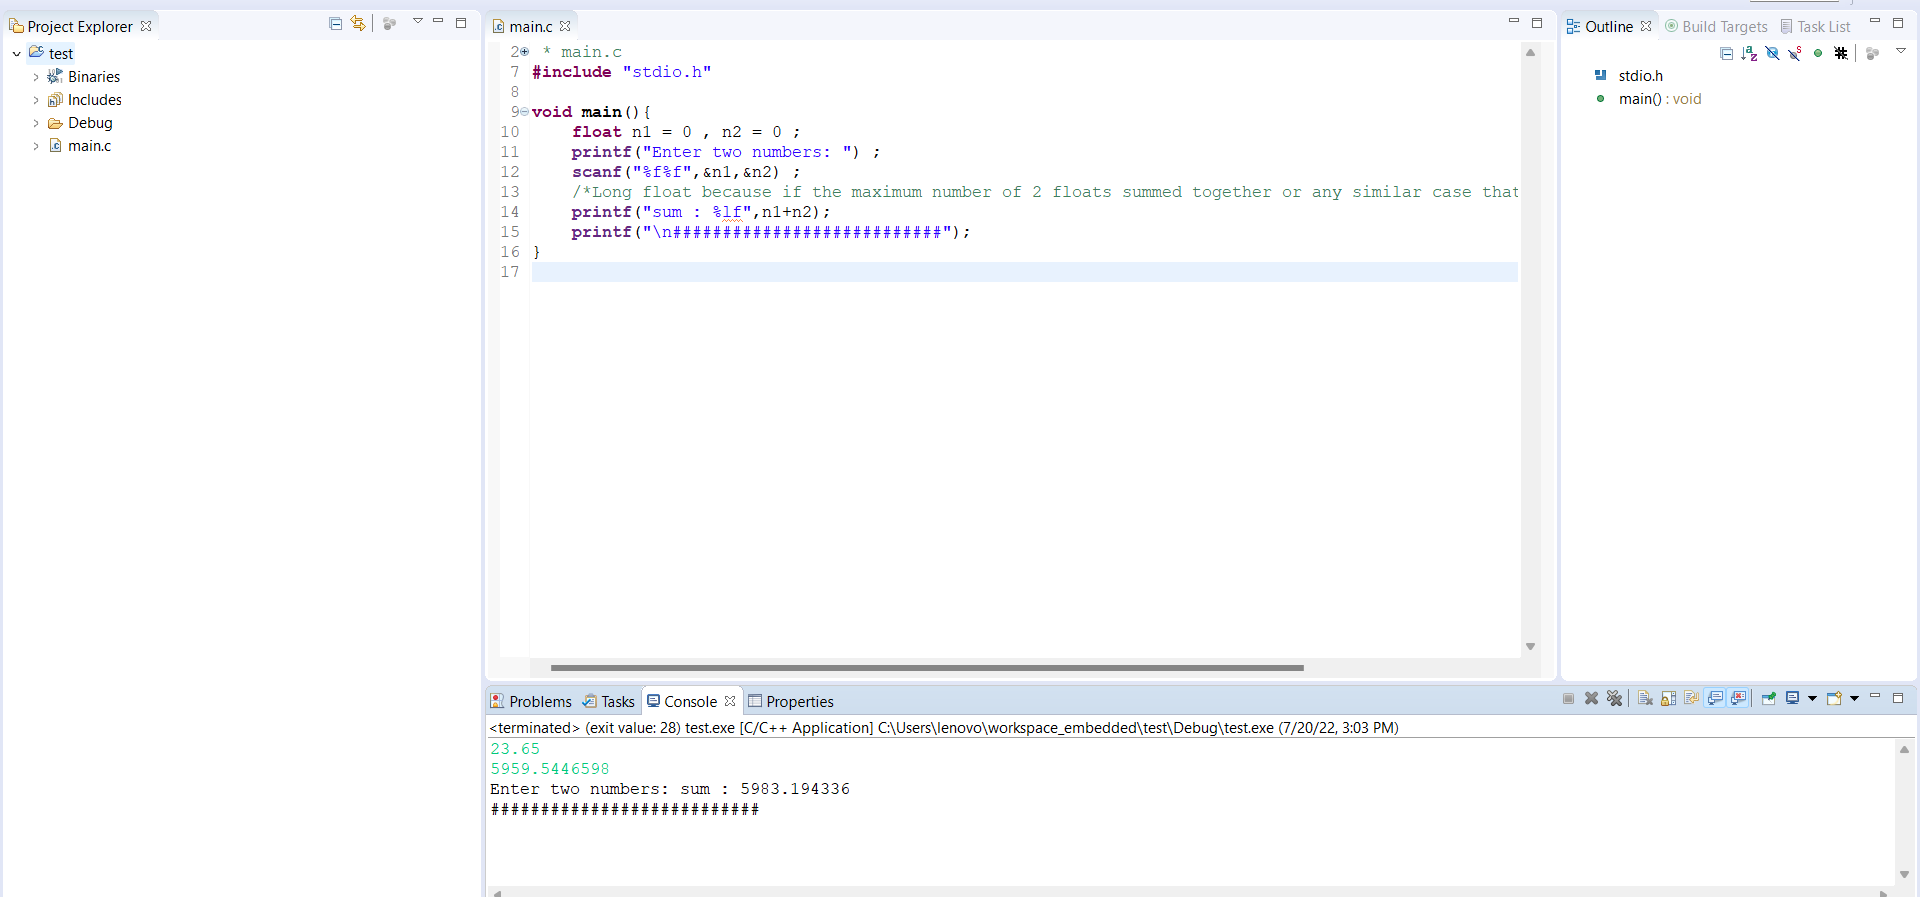
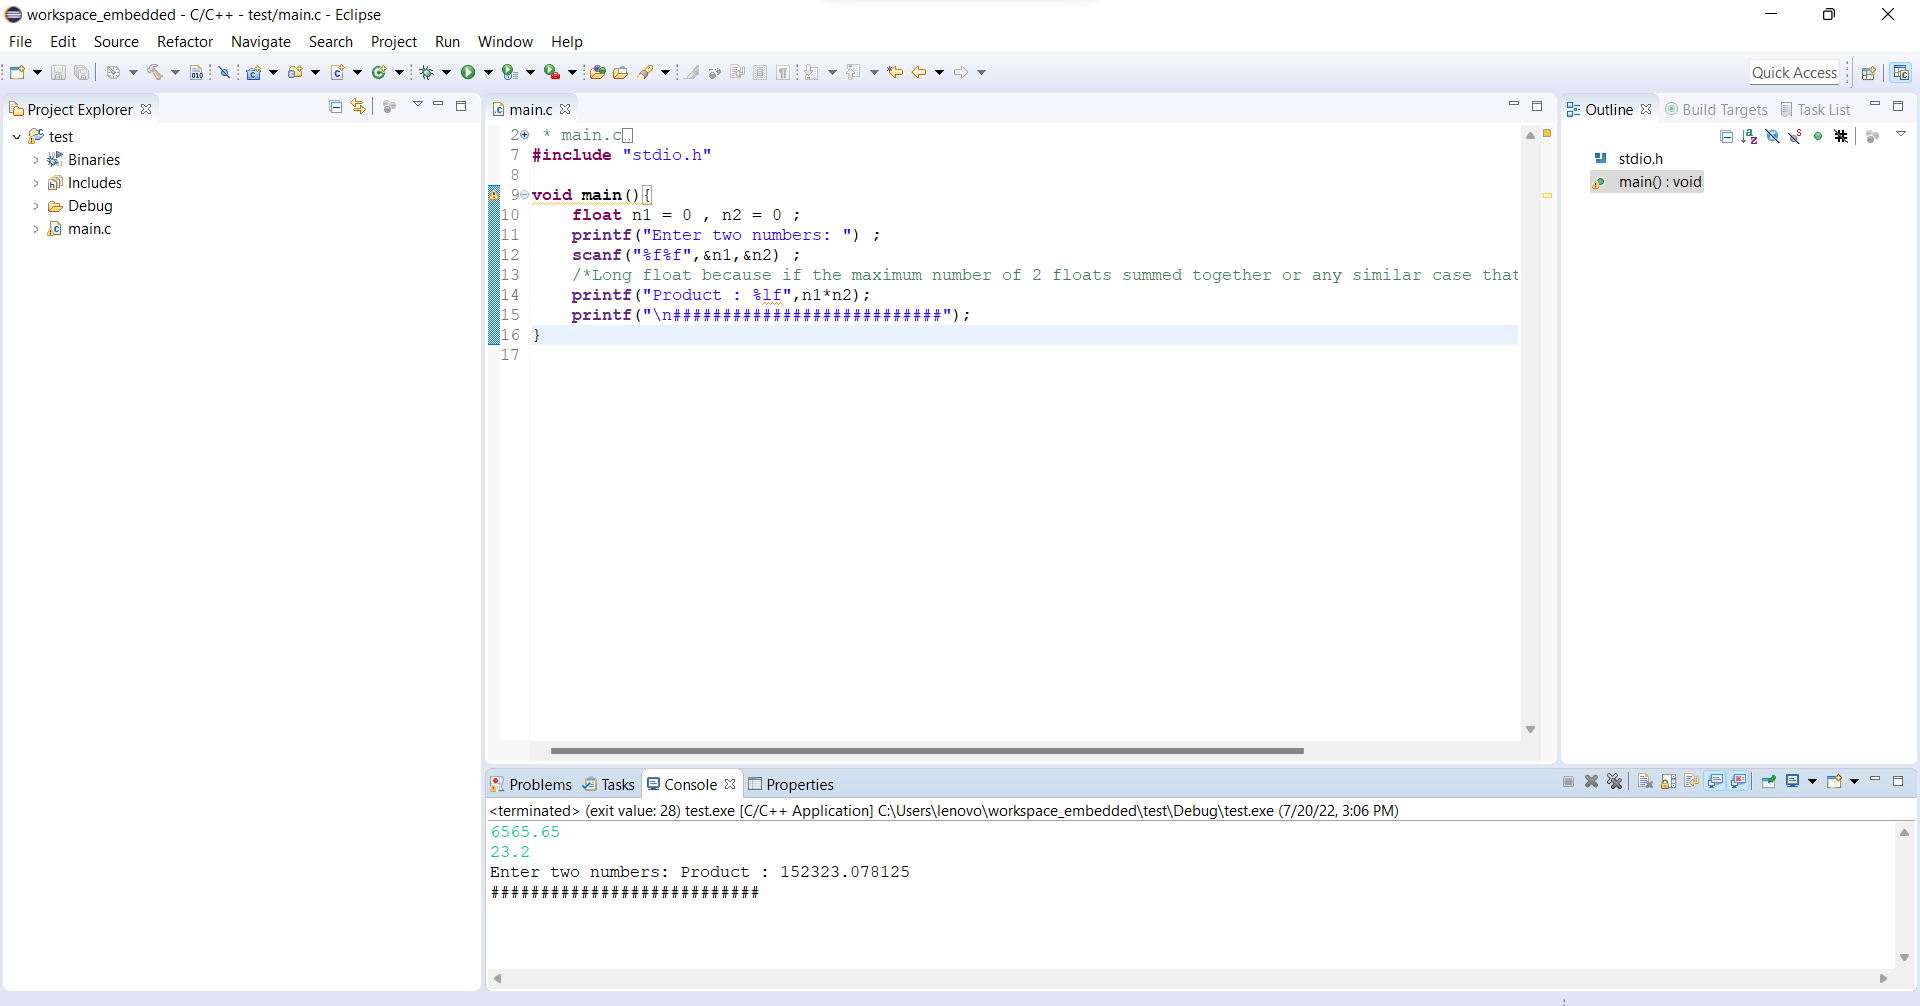
Ex 4 edit

diff --git a/C Programming/Lesson 3 C Basics/Part 1/EX 4/main.c b/C Programming/Lesson 3 C Basics/Part 1/EX 4/main.c
@@ -11,6 +11,6 @@ void main(){
 	printf("Enter two numbers: ") ;
 	scanf("%f%f",&n1,&n2) ;
 	/*Long float because if the maximum number of 2 floats summed together or any similar case that will exceed the limit */
-	printf("sum : %lf",n1+n2);
+	printf("Product : %lf",n1*n2);
 	printf("\n###########################");
 }
